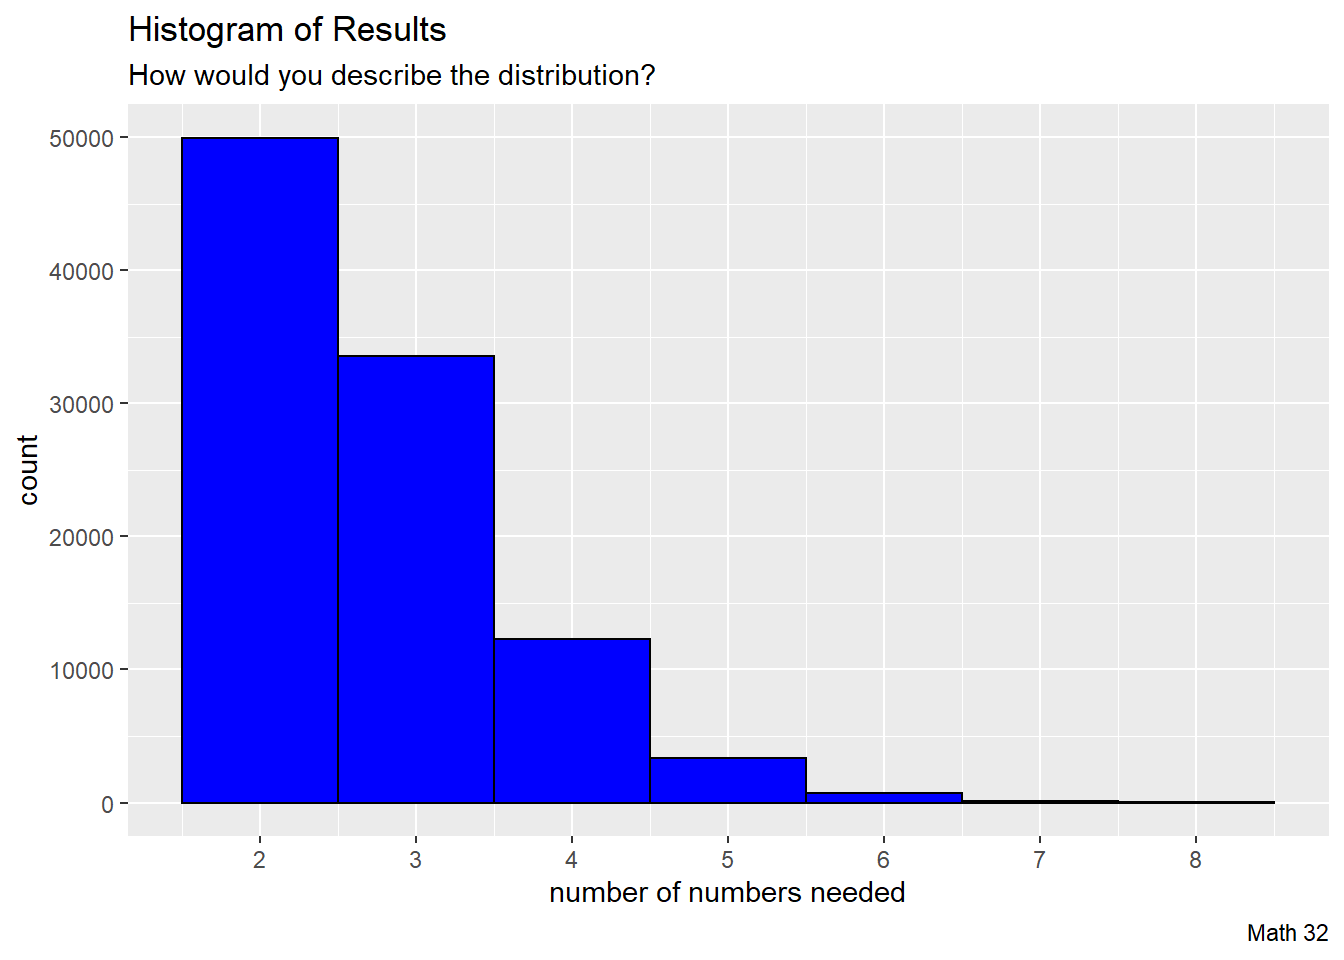
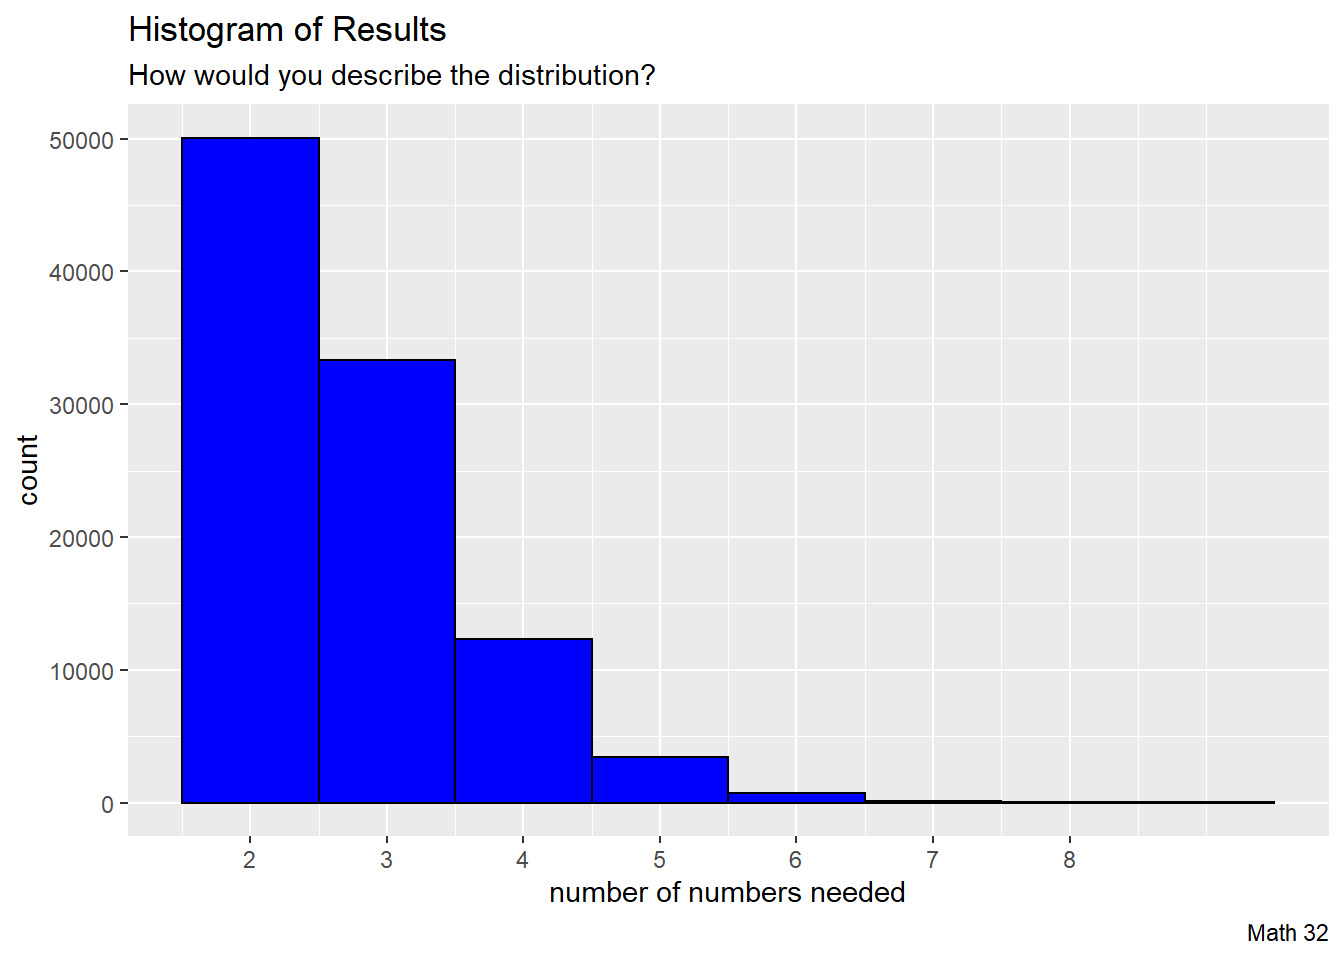
lecture 3
lecture 3

diff --git a/_site/posts/01_-_Introduction/Math_32_-_Introductions.html b/_site/posts/01_-_Introduction/Math_32_-_Introductions.html
@@ -7,6 +7,7 @@
 <meta name="viewport" content="width=device-width, initial-scale=1.0, user-scalable=yes">
 
 <meta name="author" content="Derek Sollberger">
+<meta name="dcterms.date" content="2022-08-25">
 
 <title>Math 32 - 01_-_Introductions</title>
 <style>
@@ -164,6 +165,12 @@ code span.wa { color: #60a0b0; font-weight: bold; font-style: italic; } /* Warni
             </div>
     </div>
       
+      <div>
+      <div class="quarto-title-meta-heading">Published</div>
+      <div class="quarto-title-meta-contents">
+        <p class="date">August 25, 2022</p>
+      </div>
+    </div>
       
     </div>
     
@@ -457,19 +464,19 @@ code span.wa { color: #60a0b0; font-weight: bold; font-style: italic; } /* Warni
 <div class="cell">
 <div class="sourceCode cell-code" id="cb9"><pre class="sourceCode r code-with-copy"><code class="sourceCode r"><span id="cb9-1"><a href="#cb9-1" aria-hidden="true" tabindex="-1"></a><span class="fu">runif</span>(<span class="dv">1</span>)</span></code><button title="Copy to Clipboard" class="code-copy-button"><i class="bi"></i></button></pre></div>
 <div class="cell-output cell-output-stdout">
-<pre><code>[1] 0.2015114</code></pre>
+<pre><code>[1] 0.81505</code></pre>
 </div>
 </div>
 <p>From there, we can (for example) produce a <strong>sample</strong> of <span class="math inline">\(n = 32\)</span> such random numbers</p>
 <div class="cell">
 <div class="sourceCode cell-code" id="cb11"><pre class="sourceCode r code-with-copy"><code class="sourceCode r"><span id="cb11-1"><a href="#cb11-1" aria-hidden="true" tabindex="-1"></a><span class="fu">runif</span>(<span class="dv">32</span>)</span></code><button title="Copy to Clipboard" class="code-copy-button"><i class="bi"></i></button></pre></div>
 <div class="cell-output cell-output-stdout">
-<pre><code> [1] 0.44946885 0.35676360 0.60728773 0.50835480 0.80870952 0.31661715
- [7] 0.41821635 0.49622077 0.63855946 0.67362123 0.68298397 0.35577207
-[13] 0.92774003 0.22663018 0.86547749 0.90890683 0.91462635 0.35743933
-[19] 0.74138146 0.72989729 0.07774665 0.68196050 0.82863786 0.42670627
-[25] 0.98048574 0.37735438 0.82639585 0.46566502 0.95398984 0.72313737
-[31] 0.62592808 0.97950823</code></pre>
+<pre><code> [1] 0.23201307 0.87127077 0.70026832 0.87895876 0.87331526 0.05036756
+ [7] 0.70975768 0.04589654 0.81148165 0.67277373 0.36444518 0.05252578
+[13] 0.93071222 0.65069917 0.63382323 0.50296153 0.74808861 0.93567290
+[19] 0.21726304 0.03206728 0.93737557 0.21783477 0.90292332 0.21608644
+[25] 0.31198929 0.27790058 0.42172615 0.43130608 0.20329206 0.94117982
+[31] 0.95907322 0.59290890</code></pre>
 </div>
 </div>
 </section>
@@ -480,19 +487,19 @@ code span.wa { color: #60a0b0; font-weight: bold; font-style: italic; } /* Warni
 <div class="sourceCode cell-code" id="cb13"><pre class="sourceCode r code-with-copy"><code class="sourceCode r"><span id="cb13-1"><a href="#cb13-1" aria-hidden="true" tabindex="-1"></a>X <span class="ot">&lt;-</span> <span class="fu">cumsum</span>(<span class="fu">runif</span>(<span class="dv">32</span>))</span>
 <span id="cb13-2"><a href="#cb13-2" aria-hidden="true" tabindex="-1"></a><span class="fu">print</span>(X)</span></code><button title="Copy to Clipboard" class="code-copy-button"><i class="bi"></i></button></pre></div>
 <div class="cell-output cell-output-stdout">
-<pre><code> [1]  0.1872923  0.4027582  0.7182827  1.3145848  1.3454350  1.9051394
- [7]  2.6794054  3.5154235  4.2805220  4.9226541  5.7660863  6.4011116
-[13]  7.3294509  8.0940652  8.5022852  9.1266210  9.8513230 10.1969931
-[19] 11.1483167 11.2708436 11.3453341 11.9317544 12.0194413 12.1581700
-[25] 13.0830715 13.1786501 13.6122212 13.7655623 14.2714323 14.4323338
-[31] 14.5669573 14.7574751</code></pre>
+<pre><code> [1]  0.2451511  0.5850619  1.2441624  2.0179309  2.5838395  2.9461865
+ [7]  3.1303979  3.8536004  4.5735742  4.6358679  4.8938637  5.6998413
+[13]  6.3232469  7.0119696  7.9724195  8.2188149  8.7869916  9.1473904
+[19]  9.8618203 10.3766007 11.3126492 11.9842738 12.1088123 12.6723460
+[25] 13.6674356 14.3986901 15.0511902 15.1968950 16.1945759 16.9695972
+[31] 17.9123227 17.9644575</code></pre>
 </div>
 </div>
 <p>and then we can check when our cumulative summation first exceeded 1.0</p>
 <div class="cell">
 <div class="sourceCode cell-code" id="cb15"><pre class="sourceCode r code-with-copy"><code class="sourceCode r"><span id="cb15-1"><a href="#cb15-1" aria-hidden="true" tabindex="-1"></a><span class="fu">which.max</span>(X <span class="sc">&gt;</span> <span class="fl">1.0</span>)</span></code><button title="Copy to Clipboard" class="code-copy-button"><i class="bi"></i></button></pre></div>
 <div class="cell-output cell-output-stdout">
-<pre><code>[1] 4</code></pre>
+<pre><code>[1] 3</code></pre>
 </div>
 </div>
 </section>
@@ -546,7 +553,7 @@ code span.wa { color: #60a0b0; font-weight: bold; font-style: italic; } /* Warni
 <div class="cell">
 <div class="sourceCode cell-code" id="cb19"><pre class="sourceCode r code-with-copy"><code class="sourceCode r"><span id="cb19-1"><a href="#cb19-1" aria-hidden="true" tabindex="-1"></a><span class="fu">mean</span>(our_results, <span class="at">na.rm =</span> <span class="cn">TRUE</span>)</span></code><button title="Copy to Clipboard" class="code-copy-button"><i class="bi"></i></button></pre></div>
 <div class="cell-output cell-output-stdout">
-<pre><code>[1] 2.71655</code></pre>
+<pre><code>[1] 2.71847</code></pre>
 </div>
 </div>
 <ul>

diff --git a/_site/slides.html b/_site/slides.html
@@ -147,32 +147,7 @@ ul.task-list{list-style: none;}
 
 <div class="quarto-listing quarto-listing-container-default" id="listing-listing">
 <div class="list quarto-listing-default">
-<div class="quarto-post image-right" data-index="0" data-listing-file-modified-sort="1661813253660" data-listing-reading-time-sort="7.235">
-<div class="thumbnail">
-<p><a href="./posts/01_-_Introduction/Math_32_-_Introductions.html"> <img src="./posts/01_-_Introduction/dorm.png" class="thumnail-image"> </a></p>
-</div>
-<div class="body">
-<a href="./posts/01_-_Introduction/Math_32_-_Introductions.html">
-<h3 class="no-anchor listing-title">
-01_-_Introductions
-</h3>
-<div class="listing-subtitle">
-
-</div>
-<div class="listing-description">
-Lecturer: Derek Sollberger
-</div>
-</a>
-</div>
-<div class="metadata">
-<a href="./posts/01_-_Introduction/Math_32_-_Introductions.html">
-<div class="listing-author">
-Derek Sollberger
-</div>
-</a>
-</div>
-</div>
-<div class="quarto-post image-right" data-index="1" data-listing-date-sort="1662015600000" data-listing-file-modified-sort="1662004664711" data-listing-reading-time-sort="2.755">
+<div class="quarto-post image-right" data-index="0" data-listing-date-sort="1662015600000" data-listing-file-modified-sort="1662004664711" data-listing-reading-time-sort="2.755">
 <div class="thumbnail">
 <p><a href="./posts/03_-_Dependence/Math_32_-_03_-_Dependence.html"> <img src="./posts/03_-_Dependence/bayes1.png" class="thumnail-image"> </a></p>
 </div>
@@ -200,7 +175,7 @@ Derek Sollberger
 </a>
 </div>
 </div>
-<div class="quarto-post image-right" data-index="2" data-listing-date-sort="1661842800000" data-listing-file-modified-sort="1661815385273" data-listing-reading-time-sort="4.67">
+<div class="quarto-post image-right" data-index="1" data-listing-date-sort="1661842800000" data-listing-file-modified-sort="1661815385273" data-listing-reading-time-sort="4.67">
 <div class="thumbnail">
 <p><a href="./posts/02_-_Independence/Math_32_-_02_-_Independence.html"> <img src="./posts/02_-_Independence/die.png" class="thumnail-image"> </a></p>
 </div>
@@ -221,6 +196,34 @@ In order to introduce probability concepts, you will notice that many sections o
 <a href="./posts/02_-_Independence/Math_32_-_02_-_Independence.html">
 <div class="listing-date">
 Aug 30, 2022
+</div>
+<div class="listing-author">
+Derek Sollberger
+</div>
+</a>
+</div>
+</div>
+<div class="quarto-post image-right" data-index="2" data-listing-date-sort="1661410800000" data-listing-file-modified-sort="1662004847716" data-listing-reading-time-sort="7.235">
+<div class="thumbnail">
+<p><a href="./posts/01_-_Introduction/Math_32_-_Introductions.html"> <img src="./posts/01_-_Introduction/dorm.png" class="thumnail-image"> </a></p>
+</div>
+<div class="body">
+<a href="./posts/01_-_Introduction/Math_32_-_Introductions.html">
+<h3 class="no-anchor listing-title">
+01_-_Introductions
+</h3>
+<div class="listing-subtitle">
+
+</div>
+<div class="listing-description">
+Lecturer: Derek Sollberger
+</div>
+</a>
+</div>
+<div class="metadata">
+<a href="./posts/01_-_Introduction/Math_32_-_Introductions.html">
+<div class="listing-date">
+Aug 25, 2022
 </div>
 <div class="listing-author">
 Derek Sollberger

diff --git a/_site/posts/03_-_Dependence/Math_32_-_03_-_Dependence.html b/_site/posts/03_-_Dependence/Math_32_-_03_-_Dependence.html
@@ -9,7 +9,7 @@
 <meta name="author" content="Derek Sollberger">
 <meta name="dcterms.date" content="2022-09-01">
 
-<title>Math 32 - Dependence</title>
+<title>Math 32 - 03_-_Dependence</title>
 <style>
 code{white-space: pre-wrap;}
 span.smallcaps{font-variant: small-caps;}
